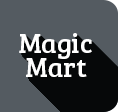
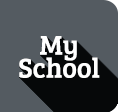
ohh my god

Changed region(s): [[0.1525, 0.2946, 1.0, 1.0], [0.8898, 0.8839, 1.0, 1.0]]

diff --git a/website/application/widgets/champs21header/view.php b/website/application/widgets/champs21header/view.php
@@ -693,7 +693,7 @@ height: 46px;
                 <li data="candle" class="<?php echo ( free_user_logged_in() ) ? 'candlepopup' : 'before-login-user'; ?>">
                     <div class="icon-candle">&nbsp;</div> 
                 </li>
-                <li data="magic_mart" class="before-login-user">
+                <li data="magic_mart" class="before-login-user-back" onclick="location.href='<?php echo base_url('/schools'); ?>'">
                 <!-- onclick="location.href='//<?php echo base_url('/market'); ?>'" -->
                     <div class="icon-magic-mart">&nbsp;</div> 
                 </li>

diff --git a/website/application/libraries/CallCache.php b/website/application/libraries/CallCache.php
@@ -5,7 +5,7 @@ class CallCache  {
 	public function __construct($config = array())
 	{
             $ci = &get_instance();
-            $ci->load->driver('cache', array('adapter' => 'apc', 'backup' => 'file')); 
+            $ci->load->driver('cache', array('adapter' => 'file', 'backup' => 'file')); 
 	}
 }
 ?>
